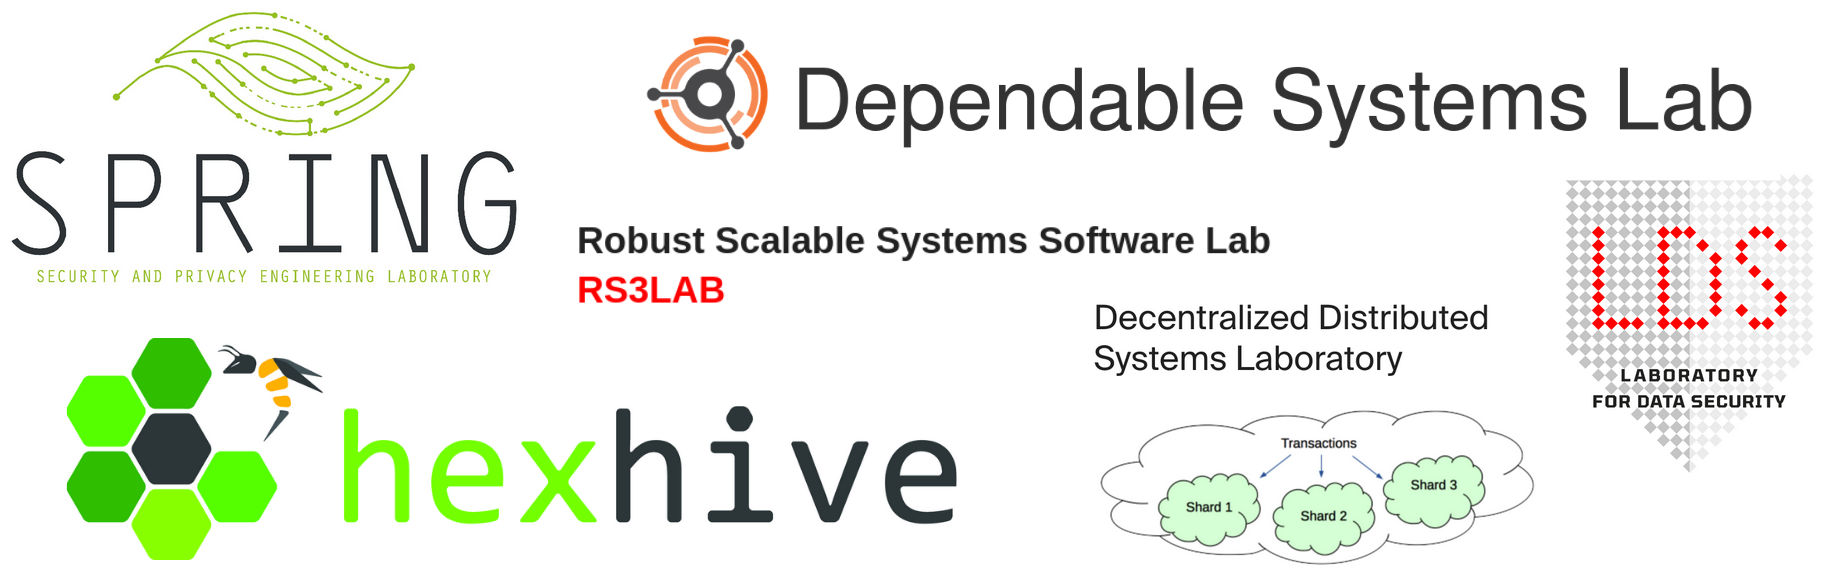
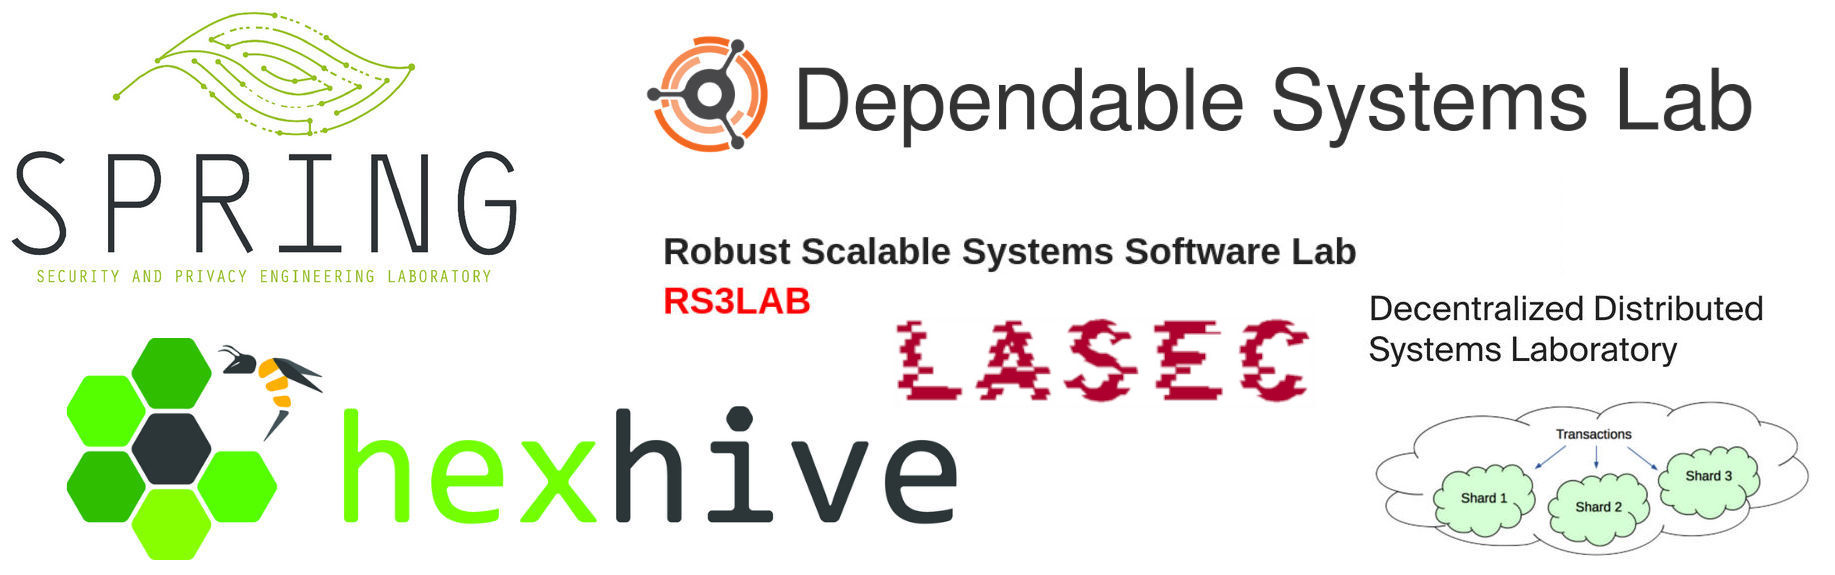
Updated from JP, link to Alex' group, and LASEC/LDS in overview image

diff --git a/index.html b/index.html
@@ -97,13 +97,14 @@ section h3.section-subheading {
 <h3>Faculty (and Labs)</h3>
 <ul>
 <li><a href="https://dslab.epfl.ch/people/candea/">George Candea</a> (<a href="https://dslab.epfl.ch/">DSLAB</a>)</li>
-<li><a href="https://ic-people.epfl.ch/~achiesa/">Alessandro Chiesa</a> (<a href="https://www.epfl.ch/labs/compsec/">COMPSEC</a>)</li>
+<li><a href="https://ic-people.epfl.ch/~achiesa/">Alessandro Chiesa</a> (COMPSEC)</li>
 <li><a href="https://bford.info/">Bryan Ford</a> (<a href="https://www.epfl.ch/labs/dedis/">DEDIS</a>)</li>
-<li><a href="https://people.epfl.ch/jean-pierre.hubaux">Jean-Pierre Hubaux</a> (<a href="https://c4dt.epfl.ch/">C4DT</a>, LDS)</li>
+<li><a href="https://people.epfl.ch/jean-pierre.hubaux">Jean-Pierre Hubaux</a>* (<a href="https://c4dt.epfl.ch/">C4DT</a>)</li>
 <li><a href="https://sanidhya.github.io/">Sanidhya Kashyap</a> (<a href="https://rs3lab.github.io/">RS3Lab</a>)</li>
 <li><a href="https://nebelwelt.net">Mathias Payer</a> (<a href="https://hexhive.epfl.ch">HexHive</a>)</li>
 <li><a href="https://carmelatroncoso.com/">Carmela Troncoso</a> (<a href="https://www.epfl.ch/labs/spring/">SPRING</a>)</li>
 <li><a href="https://lasec.epfl.ch/people/vaudenay/">Serge Vaudenay</a> (<a href="https://lasec.epfl.ch/">LASEC</a>)</li>
+* Note, JP Hubaux does not recruit PhD students nor postdocs anymore
 </ul>
 
 <h3>Postdocs and Researchers</h3> <!-- Ordered by last name, Research Scientists and Post Doctoral Scholars in IC speak -->
@@ -115,7 +116,6 @@ section h3.section-subheading {
 <li><a href="https://gwangmu.github.io/">Gwangmu Lee</a></li>
 <li><a href="https://kavousniksirat.com/">Kavous Salehzadeh Niksirat</a></li>
 <li>Apostolos Pyrgelis</li>
-<li>Juan Troncoso-Pastoriza</li>
 <li><a href="https://pasquini-dario.github.io/me/">Dario Pasquini</a></li>
 <li><a href="http://flaviotoffalini.info/">Flavio Toffalini</a></li>
 </ul>
@@ -191,6 +191,7 @@ section h3.section-subheading {
 <li><a href="https://wouterlueks.nl/">Wouter Lueks</a></li>
 <li><a href="https://nikirill.com/">Kirill Nikitin</a></li>
 <li><a href="https://sandrasiby.github.io/">Sandra Siby</a></li>
+<li>Juan Troncoso-Pastoriza</li>
 <li>Hailun Yan</li>
 </ul>
 </div>
@@ -231,6 +232,7 @@ PhD students can also attend <a href="https://www.epfl.ch/education/phd/edic-com
 <hr>
 <ul>
 <li>PrivaSec Seminar: semesterly gathering among all security people.</li>
+<li><a href="https://suri.epfl.ch/">Security/Privacy track of EPFL's SuRI (Summer Research Institute)</a></li>
 </ul>
 </div>
 </div>
